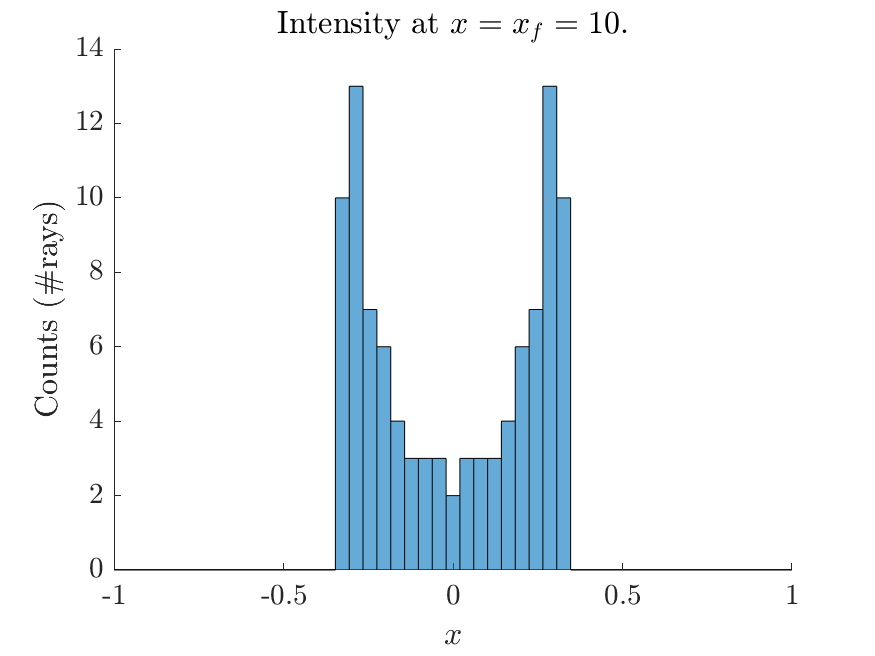
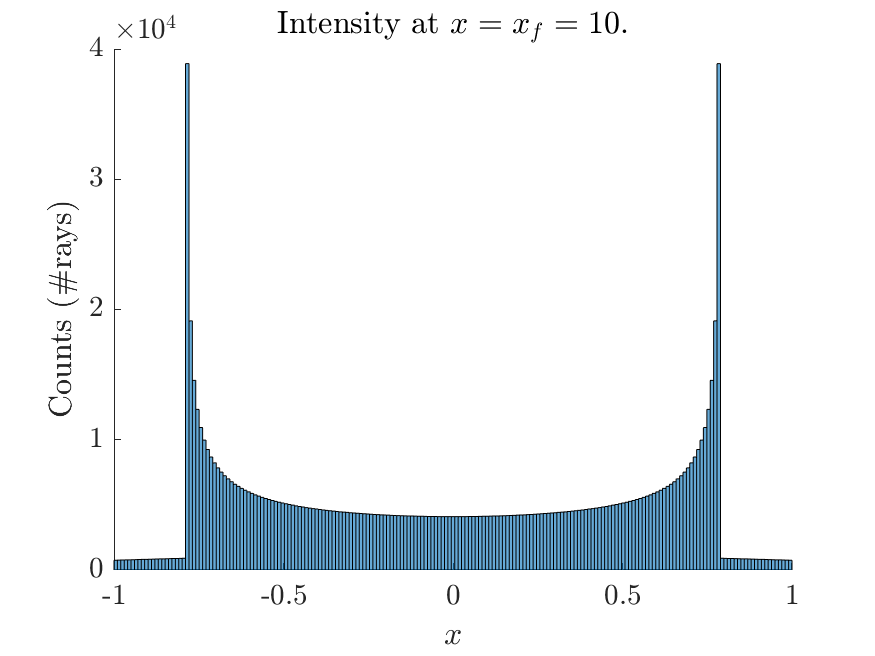
update ray tracer

diff --git a/Main code/Ray_tracer.m b/Main code/Ray_tracer.m
@@ -32,33 +32,43 @@ loadfile = 'a_vec.mat';
 load(strcat('C:\Users\Buijssen\Documents\GitHub\Bachelor-s-Thesis\Data\',loadfile),'a_vec_N');
 a_vec = a_vec_N;    % Rename variable for this script
 a_vec(1) = xi;       % Set height of lens to optical start
-% a_vec = zeros(1,25);
-% a_vec(5) = 0.2;
+a_vec = zeros(1,25);
+a_vec(12) = 0.1;
+% a_vec(13) = 0.05;
+% a_vec(25) = 0.01;
 clear a_vec_N
 
 %% Ray tracer
-number_of_rays = 1e2;
+% for plotting use 2e2
+number_of_rays = 1e6;
 
 % for plotting
 y_plot = linspace(lens(1),lens(2),number_of_rays);
 x_lens = coef2surf(a_vec,y_plot);
+x_lens_deriv = coef2surf_deriv(a_vec,y_plot);
 
 rays_start = linspace(lens(2),lens(1),number_of_rays)';
 
+%% Numerical differentiator
+% % calculate normal vectors at interface
+% dx = zeros(number_of_rays,1);
+% dx(1) =   x_lens(2)     - x_lens(1);
+% dx(end) = x_lens(end) - x_lens(end-1);
+% for i = 2: (number_of_rays-1)
+%    dx(i) = x_lens(i+1)-x_lens(i-1);
+% end
+% dy = ones(number_of_rays,1) * 2 *( lens(1) - lens(2) ) / (number_of_rays - 1);
+% dy(1) = dy(1)/2;
+% dy(end) = dy(end)/2;
+% dy = -dy;
+%% Analytical differentiator
 % calculate normal vectors at interface
-dx = zeros(number_of_rays,1);
-dx(1) =   x_lens(2)     - x_lens(1);
-dx(end) = x_lens(end) - x_lens(end-1);
-for i = 2: (number_of_rays-1)
-   dx(i) = x_lens(i+1)-x_lens(i-1);
-end
-dy = ones(number_of_rays,1) * 2 *( lens(1) - lens(2) ) / (number_of_rays - 1);
-dy(1) = dy(1)/2;
-dy(end) = dy(end)/2;
-
-normal = [-dy,dx];
+dx = flipud(-coef2surf_deriv(a_vec,y_plot)');
+dy = ones(number_of_rays,1);
+ 
+normal = [dy,-dx];
 norm = sqrt( normal(:,1).^2 + normal(:,2).^2 );
-normal = fliplr((normal ./ norm)');
+normal = (normal ./ norm)';
 
 % calculate rays after transmission
 n_i = 1.6;
@@ -77,19 +87,7 @@ intensity = a.*xf + b;
 %% plotting figure 1
 figure(1); title('Optical system'); hold on; movegui('center')
 
-% Plot optical axis
-plot([xi,xf],lens_middle*ones(1,2),'-k')
-
-% % Plot lens % placeholder
-% plot(xi*ones(1,2),lens,':k')
-
-% Plot receiver plane
-plot(xf*ones(1,2),lens,'-k','LineWidth',10)
-
-% Plot boundaries
-plot([xi,xf],lens(1)*ones(1,2),'--k')
-plot([xi,xf],lens(2)*ones(1,2),'--k')
-
+if number_of_rays < 2e2+1
 % Plot rays
 quiv2 = quiver(x_lens,y_plot,v_r(1,:),v_r(2,:),600);
 quiv2.Color = 'red';
@@ -101,7 +99,19 @@ quiv2 = quiver(x_lens,y_plot,-ones(1,number_of_rays),zeros(1,number_of_rays),60)
 quiv2.Color = 'red';
 quiv2.LineWidth = 0.01;
 quiv2.MaxHeadSize = 0;
+end
+% Plot optical axis
+plot([xi-2,xf],lens_middle*ones(1,2),'-k')
 
+% % Plot lens % placeholder
+% plot(xi*ones(1,2),lens,':k')
+
+% Plot receiver plane
+plot(xf*ones(1,2),lens,'-k','LineWidth',10)
+
+% Plot boundaries
+plot([xi,xf],lens(1)*ones(1,2),'--k')
+plot([xi,xf],lens(2)*ones(1,2),'--k')
 
 % Plot lens (real lens)
 plot(x_lens,y_plot,'-k');
@@ -122,23 +132,27 @@ figure(2); title('Lens'); hold on; movegui('east')
 
 % Plot lens
 plot(x_lens,y_plot,'-k');
+plot(x_lens_deriv,y_plot,'-r');
 
-% % Plot normals on lens
-% quiv = quiver(x_lens,y_plot,normal(1,:),normal(2,:));
-% quiv.Color = 'black';
-% quiv.LineWidth = 1;
-% quiv.MaxHeadSize = 0.5;
+if number_of_rays < 2e2+1
+% Plot normals on lens
+quiv = quiver(x_lens,y_plot,normal(1,:),normal(2,:));
+quiv.Color = 'black';
+quiv.LineWidth = 1;
+quiv.MaxHeadSize = 0.5;
+end
 
 xlim([-0.5,0.5])
 xlabel('$x$');
 ylabel('$y$');
 
+grid minor
 axis equal
 
 %% Plotting figure 3
 figure(3); title(strcat('Intensity at $x = x_f = ',string(xf),'$.')); hold on; movegui('west')
 
-histogram(intensity,linspace(lens(1),lens(2),number_of_rays/2))
+histogram(intensity,linspace(lens(1),lens(2),200))
 xlim([lens(1),lens(2)])
 ylabel('Counts (\#rays)')
 xlabel('$x$')
@@ -146,6 +160,44 @@ xlabel('$x$')
 figure_name = 'ray_tracer3';
 filetype    = '.png';
 print(figure(3), '-dpng', strcat(folder,figure_name,filetype))
+
+%% Plotting figure 4
+figure(4);
+number_x = 5e2;
+x = linspace(0,xf,number_x)';
+t = a.*x + b;
+
+binNo = 3e2;                     % number of bins for the histogram
+bins  = zeros(size(t,1),binNo); % preallocation 
+% 'FOR' loop to get the histogram values for each photo
+for i=1:size(t,1)
+h = histogram(t(i,:),linspace(lens(1),lens(2),binNo+1));
+bins(i,:) = h.Values;
+end
+
+b = bar3(bins);
+
+for i = 1:size(bins,2)
+    cdata = get(b(i),'cdata');
+    k = 1;
+    for j = 0:6:(6*size(bins,1)-6)
+        cdata(j+1:j+6,:) = bins(k,i);
+        k = k+1;
+    end
+    set(b(i),'cdata',cdata);
+end
+for k = 1:length(b)
+    zdata = b(k).ZData;
+    b(k).CData = zdata;
+    b(k).FaceColor = 'interp';
+end
+colormap jet
+shading interp
+view(180,90)
+axis tight
+xlabel('$x$')
+ylabel('$y$')
+zlabel('Counts')
 %% Functions
 function Z = Zernike_surface(a_vec,r,theta)
     Z = zeros(numel(r),numel(theta))';
@@ -161,6 +213,14 @@ function rad = coef2surf(a_vec,r_plot)
     for j = 0:(length(a_vec)-1)
         [n,m] = single2double_index(j);
         rad_mat(j+1,:) = a_vec(j+1)*R(n,m,r_plot);
+    end
+    rad = sum(rad_mat,1);
+end
+
+function rad = coef2surf_deriv(a_vec,r_plot)
+    for j = 0:(length(a_vec)-1)
+        [n,m] = single2double_index(j);
+        rad_mat(j+1,:) = a_vec(j+1)*R_deriv(n,m,r_plot);
     end
     rad = sum(rad_mat,1);
 end
@@ -190,6 +250,24 @@ function radial = R(n,m,r)
     bot = (n+m)/2;
     for s = 0 : top
         x(s+1,:) =  (-1)^s*factorial(n-s)/(factorial(s)*factorial(bot-s)*factorial(top-s))*r.^(n-2*s);
+    end
+    if top ~= 0
+    radial = sum(x);
+    else
+    radial = x;
+    end
+end
+
+function radial = R_deriv(n,m,r)
+    radial = (r.^2.*(n+2)+m)./(r.*(1-r.^2)).*R(n,m,r) - (n+m+2)./(1-r.^2).*R(n+1,m+1,r);
+end
+
+function radial = R_deriv2(n,m,r)
+    m = abs(m);
+    top = (n-m)/2;
+    bot = (n+m)/2;
+    for s = 0 : top
+        x(s+1,:) =  (-1)^s*factorial(n-s)/(factorial(s)*factorial(bot-s)*factorial(top-s))*(n-2*s)*r.^(n-2*s-1);
     end
     if top ~= 0
     radial = sum(x);
